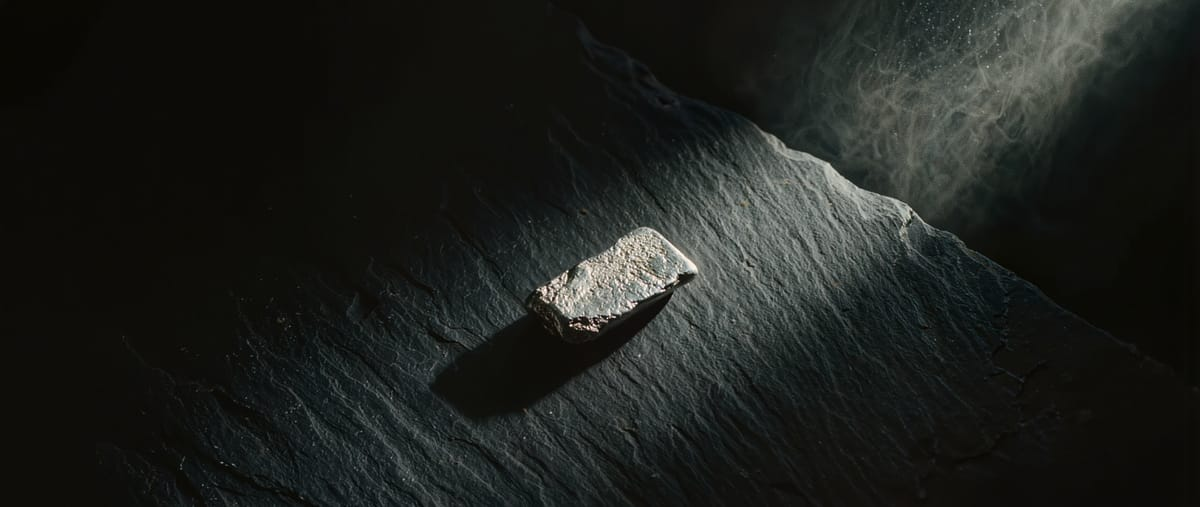
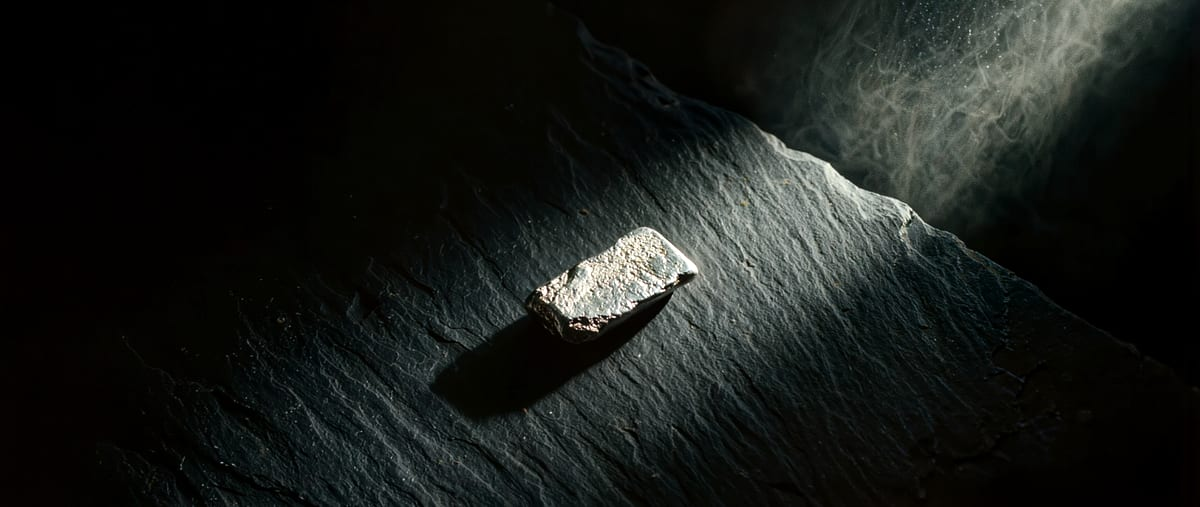
Grade the photograph so the silver carries the page
The image was present but flat: a wash sat over it, and the metal never
got to be the reason you look. The fix moved out of CSS and into the
photograph. A steepened tone curve (linear 1.30, -14) applied to the
recovered source drops the left third from mean 15 to mean 5 of 255
while holding the metal's brightness — separation between the dark field
and the lit subject goes from 28 to 36 points.

That is the whole trick: the blacks the type sits on are now the image's
own, so the overlay stops having to manufacture them and the silver
reads at close to full strength. Regenerated from the original PNG
rather than the shipped JPEG, so the curve isn't stacked on existing
compression. 186KB and 58KB.

Two iterations were wrong before this one was right, and both were
caught by measurement rather than by looking. Dropping the scrim to
match the new grade put desktop h1 worst-pixel contrast at 1.84:1
against a 3:1 requirement — the headline runs to 57% of the viewport and
the ingot had been sitting right there. Re-darkening everything would
have undone the point, so the crop moved instead: biased to 8%, the
ingot clears the headline and the scrim can stay light.

All six checks pass with margin — 7.39:1 behind the desktop h1, 6.78:1
behind its body copy, 5.31:1 and better on mobile.

Verified: 291 tests, typecheck, lint, knip, build. Zero horizontal
overflow at 390px and 1440px.

Claude-Session: https://claude.ai/code/session_012nygoXLeXYJWPvA4LVoetw

diff --git a/components/landing/hero-v2.tsx b/components/landing/hero-v2.tsx
@@ -83,46 +83,45 @@ export function HeroV2() {
         {/* eslint-disable-next-line @next/next/no-img-element */}
         {/* Two sizes rather than one. The source was a 4.3MB PNG, which would
             have been the slowest asset on the site on the page everyone lands
-            on; these are 148KB and 46KB.
+            on; these are 186KB and 58KB, graded and re-encoded from the
+            original rather than from the earlier JPEG, so the tone curve isn't
+            applied on top of existing compression.
 
             The two crops are chosen for opposite reasons. On desktop the
-            window is biased left so the lit ingot lands in the right third,
-            clear of the headline. On a phone it is biased much further left,
-            onto the dark textured slate, and that is deliberate: a 390px
-            portrait window over a 21:9 frame cannot show a bright subject
-            *and* carry ~500px of text without one of them losing. Measured, an
-            ingot behind the sub-paragraph gave 2.02:1 where 4.5:1 is required.
-            The slate reads as photograph, holds texture, and lets the scrim
-            stay light. */}
+            window is biased hard left so the lit ingot clears the headline
+            entirely — at the previous 26% it sat under "clears it." and pulled
+            worst-pixel contrast down to 1.84:1 against a 3:1 requirement. On a
+            phone it goes further left still, onto the dark textured slate, and
+            that is deliberate: a 390px portrait window over a 21:9 frame
+            cannot show a bright subject *and* carry ~500px of text without one
+            of them losing. Measured, an ingot behind the sub-paragraph gave
+            2.02:1 where 4.5:1 is required. The slate reads as photograph,
+            holds texture, and lets the scrim stay light. */}
         <img
           src={HERO_IMAGE}
           srcSet={`${HERO_IMAGE_SMALL} 1200w, ${HERO_IMAGE} 2400w`}
           sizes="100vw"
           alt=""
-          className="h-full w-full object-cover object-[16%_center] sm:object-[26%_center]"
+          className="h-full w-full object-cover object-[16%_center] sm:object-[8%_center]"
           loading="eager"
           fetchPriority="high"
         />
 
-        {/* Darken where the words are, and nowhere else.
-            A broad even wash is the obvious approach and the wrong one: it
-            costs the photograph everywhere in order to protect type that only
-            occupies the left half. This reaches full transparency by 72%, so
-            the ingot and the beam are seen at the brightness they were shot
-            at. It can afford to be this light because the frame's left third
-            is already near-black in the photograph itself (mean 15 of 255) —
-            the scrim is insurance against the crop moving, not the main
-            defence.
+        {/* Barely any scrim left, on purpose.
+            The heavy lifting moved into the photograph: it is graded with a
+            steepened tone curve, which drops the left third from mean 15 to
+            mean 5 of 255 while holding the metal's brightness. The blacks the
+            type sits on are now the image's own, so the overlay no longer has
+            to manufacture them — and the silver reads at close to full
+            strength instead of through a wash.
 
-            Note the base bg-onyx/38 applies at every breakpoint; the `sm:`
-            classes replace the background-image, not the colour, so lowering
-            it lightens desktop too. Verified per element with the text hidden
-            rather than by eye — worst-pixel contrast is 4.02:1 behind the h1
-            (needs 3:1 at 85px) and 6-7:1 behind the body copy (needs 4.5:1).
+            Note the base opacity applies at every breakpoint; the `sm:`
+            classes replace the background-image, not the colour, so changing
+            it moves desktop too.
 
             The second, vertical scrim lands the image into the page ground so
             there's no seam where the section ends. */}
-        <div className="absolute inset-0 bg-onyx/38 sm:bg-gradient-to-r sm:from-onyx sm:from-18% sm:via-onyx/72 sm:via-42% sm:to-transparent sm:to-72%" />
+        <div className="absolute inset-0 bg-onyx/30 sm:bg-gradient-to-r sm:from-onyx/92 sm:from-14% sm:via-onyx/60 sm:via-40% sm:to-transparent sm:to-70%" />
         <div className="absolute inset-x-0 bottom-0 h-48 bg-gradient-to-b from-transparent to-onyx" />
       </div>
 
